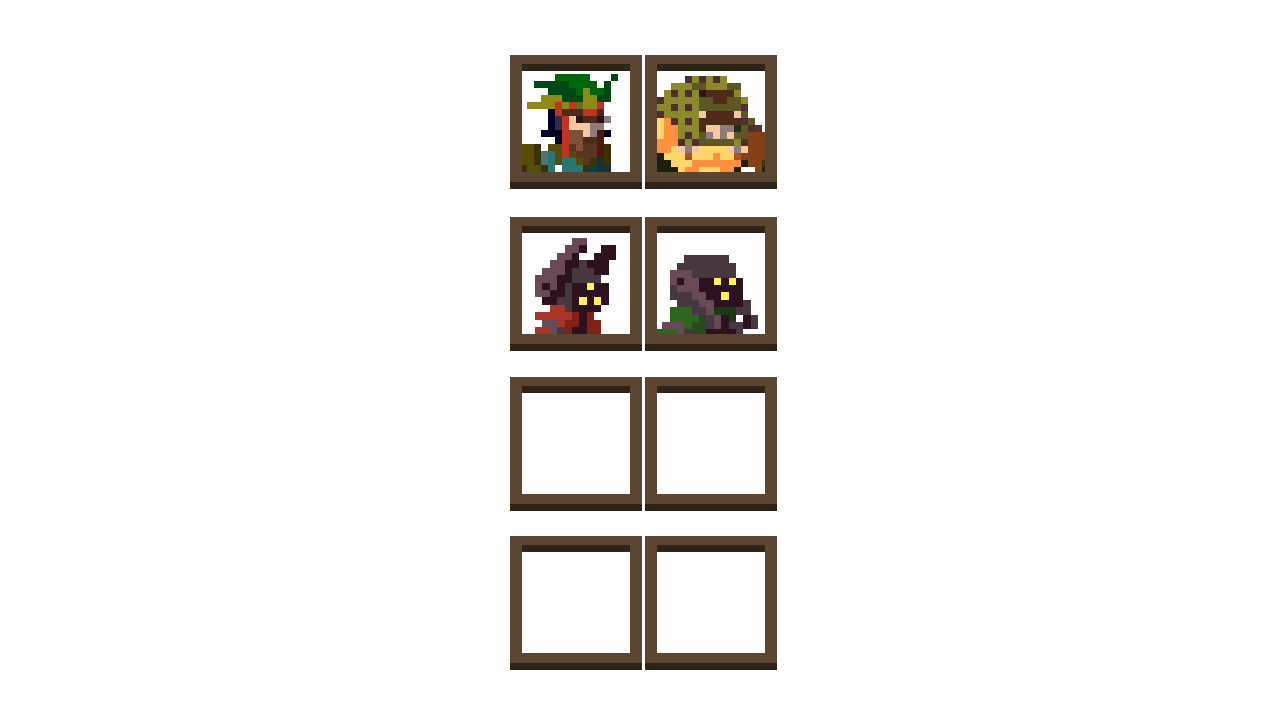
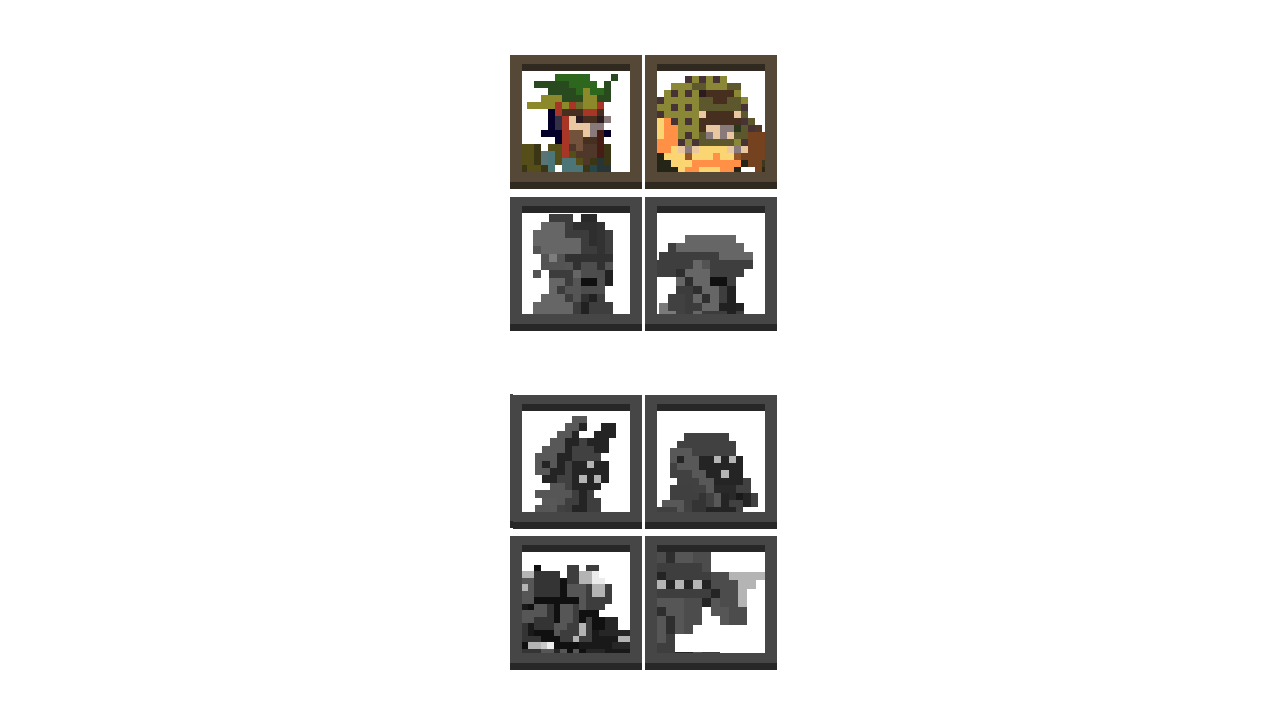
Add sprites for character selection menu

diff --git a/src/CharacterSelectState.cpp b/src/CharacterSelectState.cpp
@@ -6,17 +6,14 @@
 CharacterSelectState::CharacterSelectState(){
     background = Sprite("character_select/background.png");
     character_slots = Sprite("character_select/character_slots.png");
-    disabled_selector = Sprite("character_select/disabled_selector.png");
 
     for(int i=0;i<4;i++){
-        character_base[i] = Sprite("character_select/charselect_base_" + to_string(i+1) + ".png");
-        character_selector[i] = Sprite("character_select/character_selector_" + to_string(i+1) + ".png");
+        name_tag[i] = Sprite("character_select/name_tag_" + to_string(i + 1) + ".png");
     }
 
     memset(cur_selection, 0, sizeof cur_selection);
 
-    base_positions = { ii(28, 314), ii(221, 638), ii(994, 314), ii(801, 638) };
-    box_positions = { ii(510, 55), ii(645, 55), ii(510, 217), ii(645, 217) };
+    name_tag_positions = { ii(91, 234), ii(92, 583), ii(956, 234), ii(955, 583) };
 }
 
 void CharacterSelectState::update(float delta){
@@ -54,16 +51,7 @@ void CharacterSelectState::render(){
     character_slots.render(0, 0);
 
     for(int i=0;i<4;i++){
-        character_base[i].render(base_positions[i].first, base_positions[i].second);
-    }
-
-    for(int i=0; i<2; i++){
-        character_selector[i].render(box_positions[cur_selection[i]].first, box_positions[cur_selection[i]].second);
-    }
-
-    for(int i=2; i<4; i++){
-        character_selector[i].render(box_positions[cur_selection[i]].first, box_positions[cur_selection[i]].second);
-        disabled_selector.render(box_positions[i].first, box_positions[i].second);
+        name_tag[i].render(name_tag_positions[i].first, name_tag_positions[i].second);
     }
 }
 

diff --git a/include/CharacterSelectState.h b/include/CharacterSelectState.h
@@ -11,21 +11,19 @@ using std::to_string;
 
 class CharacterSelectState : public State {
 private:
-    Sprite background, character_slots;
-    Sprite character_base[4];
-    Sprite character_selector[4];
-    Sprite disabled_selector;
-    int cur_selection[4];
-    vector<ii> box_positions, base_positions;
+	Sprite background, character_slots;
+	Sprite name_tag[4];
+	int cur_selection[4];
+	vector<ii> name_tag_positions;
 
 public:
-    CharacterSelectState();
+	CharacterSelectState();
 
-    void update(float delta);
-    void render();
+	void update(float delta);
+	void render();
 
-    void pause();
-    void resume();
+	void pause();
+	void resume();
 };
 
 #endif
